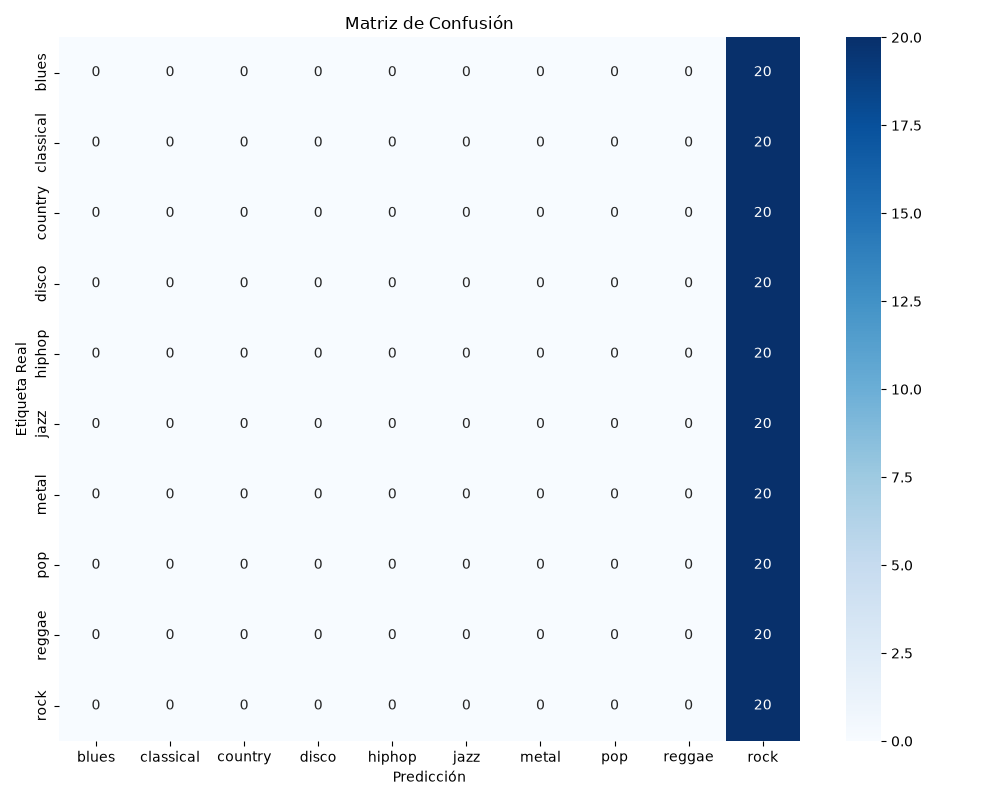
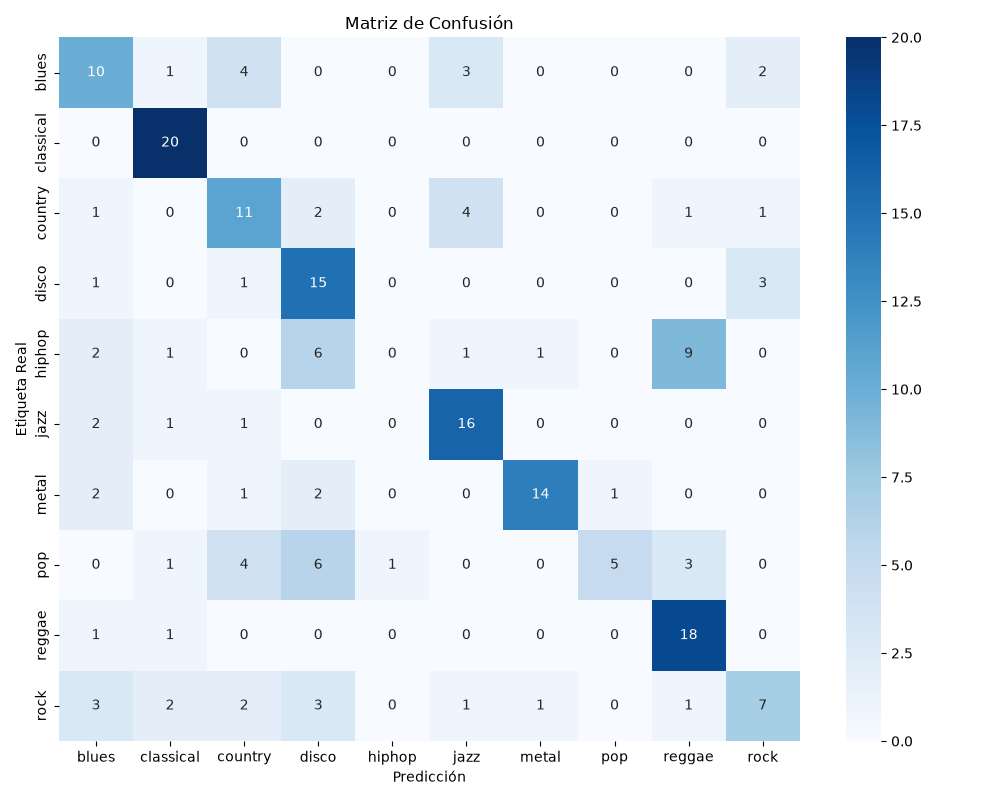
Ajuste final de modelo CNN con metricas de validacion corregidas

diff --git a/train_model.py b/train_model.py
@@ -7,8 +7,8 @@ import numpy as np
 import os
 
 BATCH_SIZE = 32
-IMG_SIZE = (128, 128)  # Reducimos dimensión para entrenamiento ultrarrápido y liviano
-EPOCHS = 15
+IMG_SIZE = (128, 128)
+EPOCHS = 20
 CLASES = ['blues', 'classical', 'country', 'disco', 'hiphop', 
           'jazz', 'metal', 'pop', 'reggae', 'rock']
 
@@ -20,7 +20,8 @@ def cargar_datos():
         label_mode='int',
         color_mode='grayscale',
         batch_size=BATCH_SIZE,
-        image_size=IMG_SIZE
+        image_size=IMG_SIZE,
+        shuffle=True
     )
     val_ds = tf.keras.utils.image_dataset_from_directory(
         'dataset/procesado/val',
@@ -28,37 +29,40 @@ def cargar_datos():
         label_mode='int',
         color_mode='grayscale',
         batch_size=BATCH_SIZE,
-        image_size=IMG_SIZE
+        image_size=IMG_SIZE,
+        shuffle=False
     )
-    AUTOTUNE = tf.data.AUTOTUNE
-    return train_ds.cache().shuffle(1000).prefetch(buffer_size=AUTOTUNE), val_ds.cache().prefetch(buffer_size=AUTOTUNE)
+    return train_ds, val_ds
 
 def construir_modelo():
     model = models.Sequential([
-        # Normalización de píxeles (0 a 255 -> 0.0 a 1.0)
-        layers.Rescaling(1./255, input_shape=(IMG_SIZE[0], IMG_SIZE[1], 1)),
+        # Capa explícita de entrada
+        layers.Input(shape=(IMG_SIZE[0], IMG_SIZE[1], 1)),
         
+        # Normalización
+        layers.Rescaling(1./255),
+        
+        # Bloque 1
         layers.Conv2D(32, (3, 3), activation='relu'),
         layers.MaxPooling2D((2, 2)),
-        layers.BatchNormalization(),
         
+        # Bloque 2
         layers.Conv2D(64, (3, 3), activation='relu'),
         layers.MaxPooling2D((2, 2)),
-        layers.BatchNormalization(),
         
+        # Bloque 3
         layers.Conv2D(128, (3, 3), activation='relu'),
         layers.MaxPooling2D((2, 2)),
-        layers.BatchNormalization(),
-        layers.Dropout(0.3),
+        layers.Dropout(0.25),
         
-        layers.GlobalAveragePooling2D(), # Reduce parámetros drásticamente
+        # Capas Densas
+        layers.Flatten(),
         layers.Dense(64, activation='relu'),
-        layers.Dropout(0.4),
+        layers.Dropout(0.5),
         layers.Dense(10, activation='softmax')
     ])
     
-    # LR ajustado para convergencia estable
-    opt = tf.keras.optimizers.Adam(learning_rate=0.001)
+    opt = tf.keras.optimizers.Adam(learning_rate=0.0005)
     model.compile(optimizer=opt, loss='sparse_categorical_crossentropy', metrics=['accuracy'])
     return model
 
@@ -109,8 +113,8 @@ if __name__ == "__main__":
     historial = modelo.fit(train_ds, validation_data=val_ds, epochs=EPOCHS)
     
     os.makedirs('web_app/model', exist_ok=True)
-    modelo.save('web_app/model/modelo_final.h5')
-    print("\nModelo guardado en web_app/model/modelo_final.h5")
+    modelo.save('web_app/model/modelo_final.keras')
+    print("\nModelo guardado en web_app/model/modelo_final.keras")
     
     print("\nGenerando gráficas de evaluación...")
     generar_graficas(historial, modelo, val_ds)
